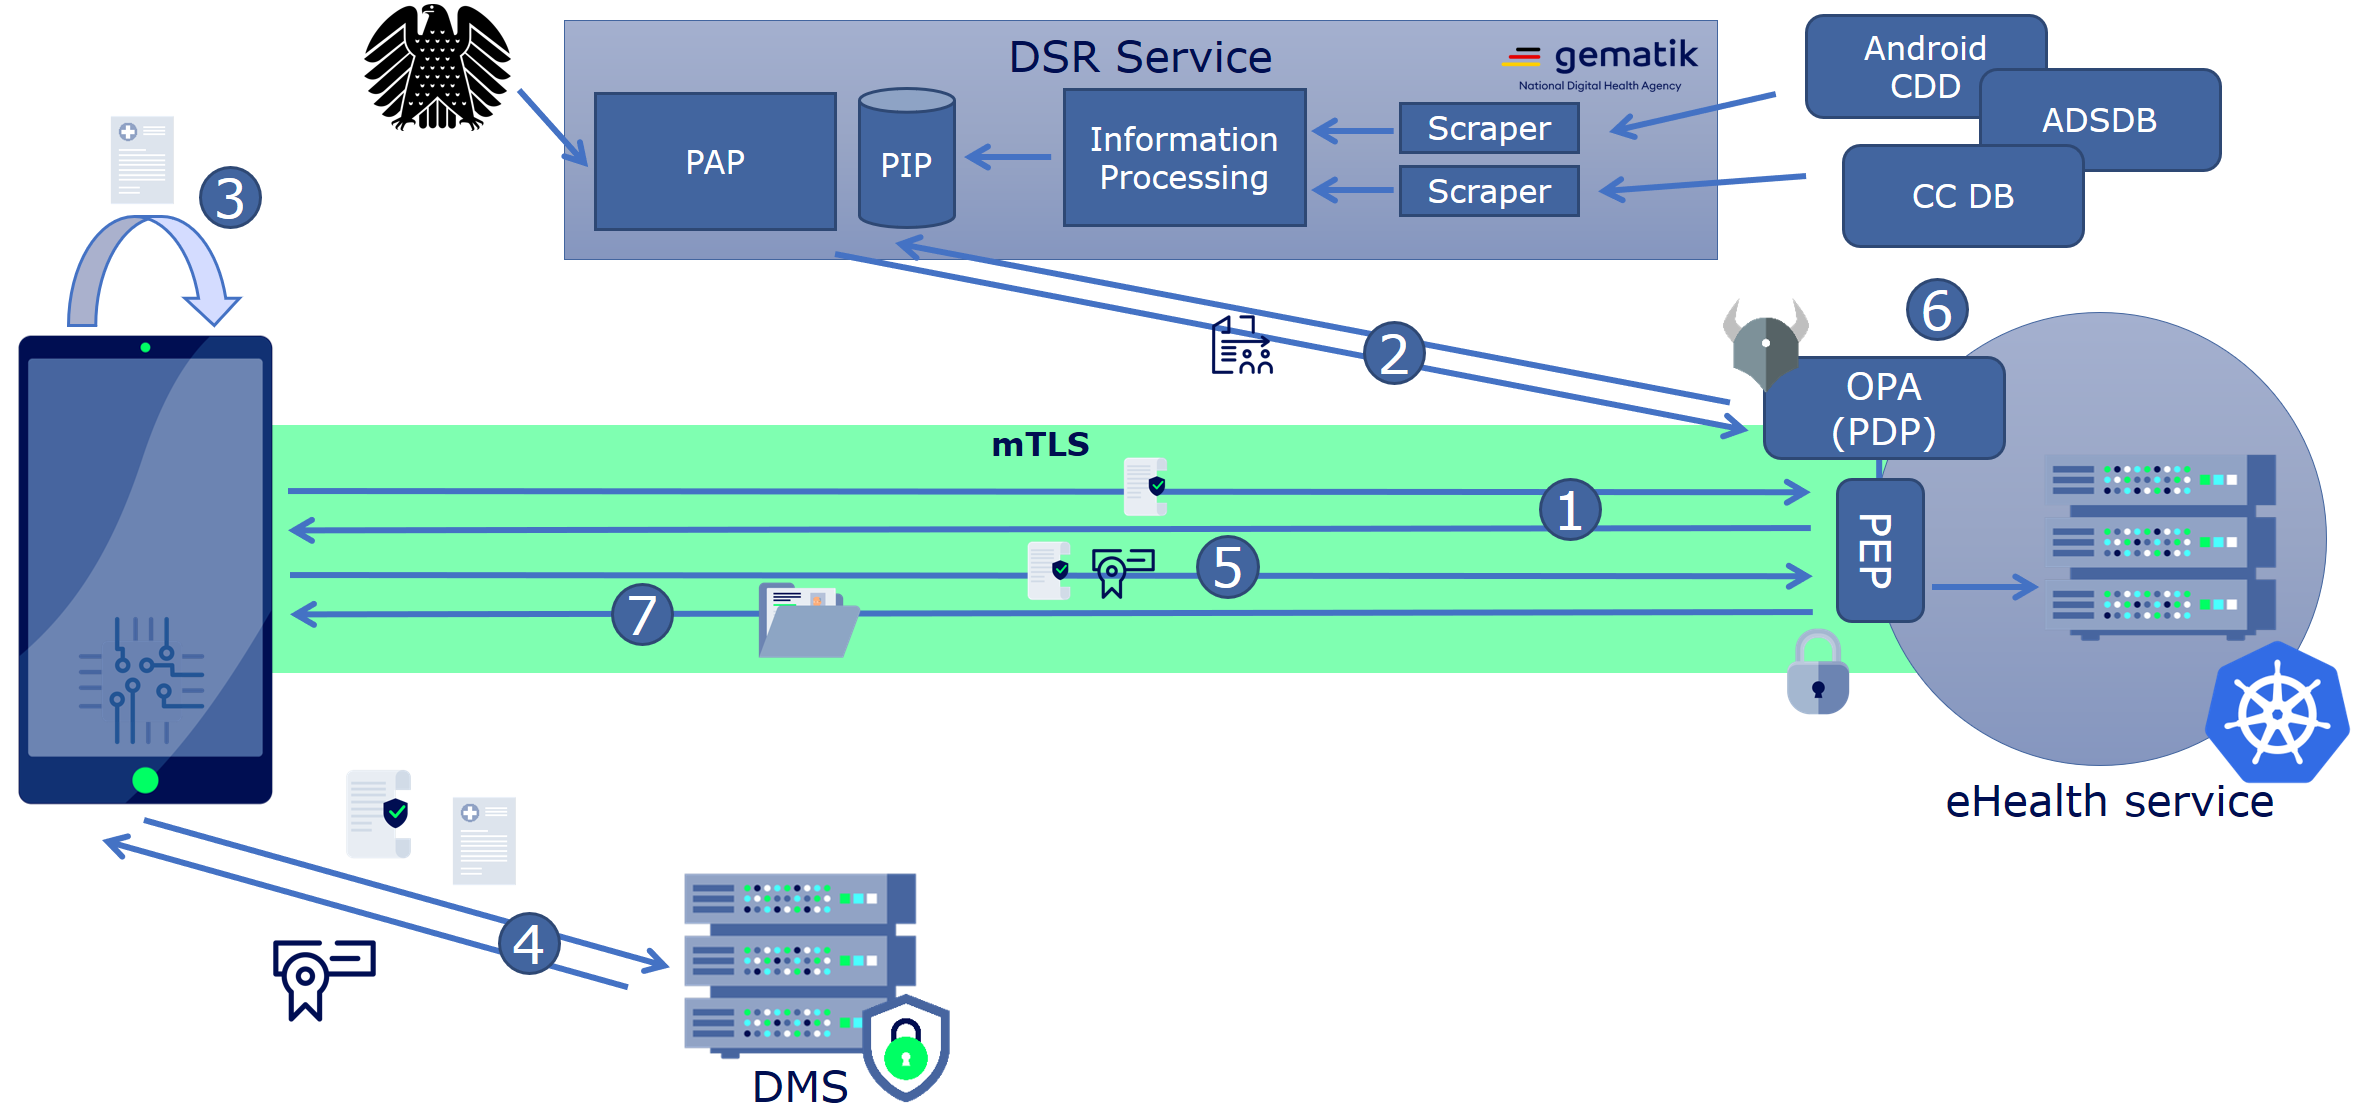
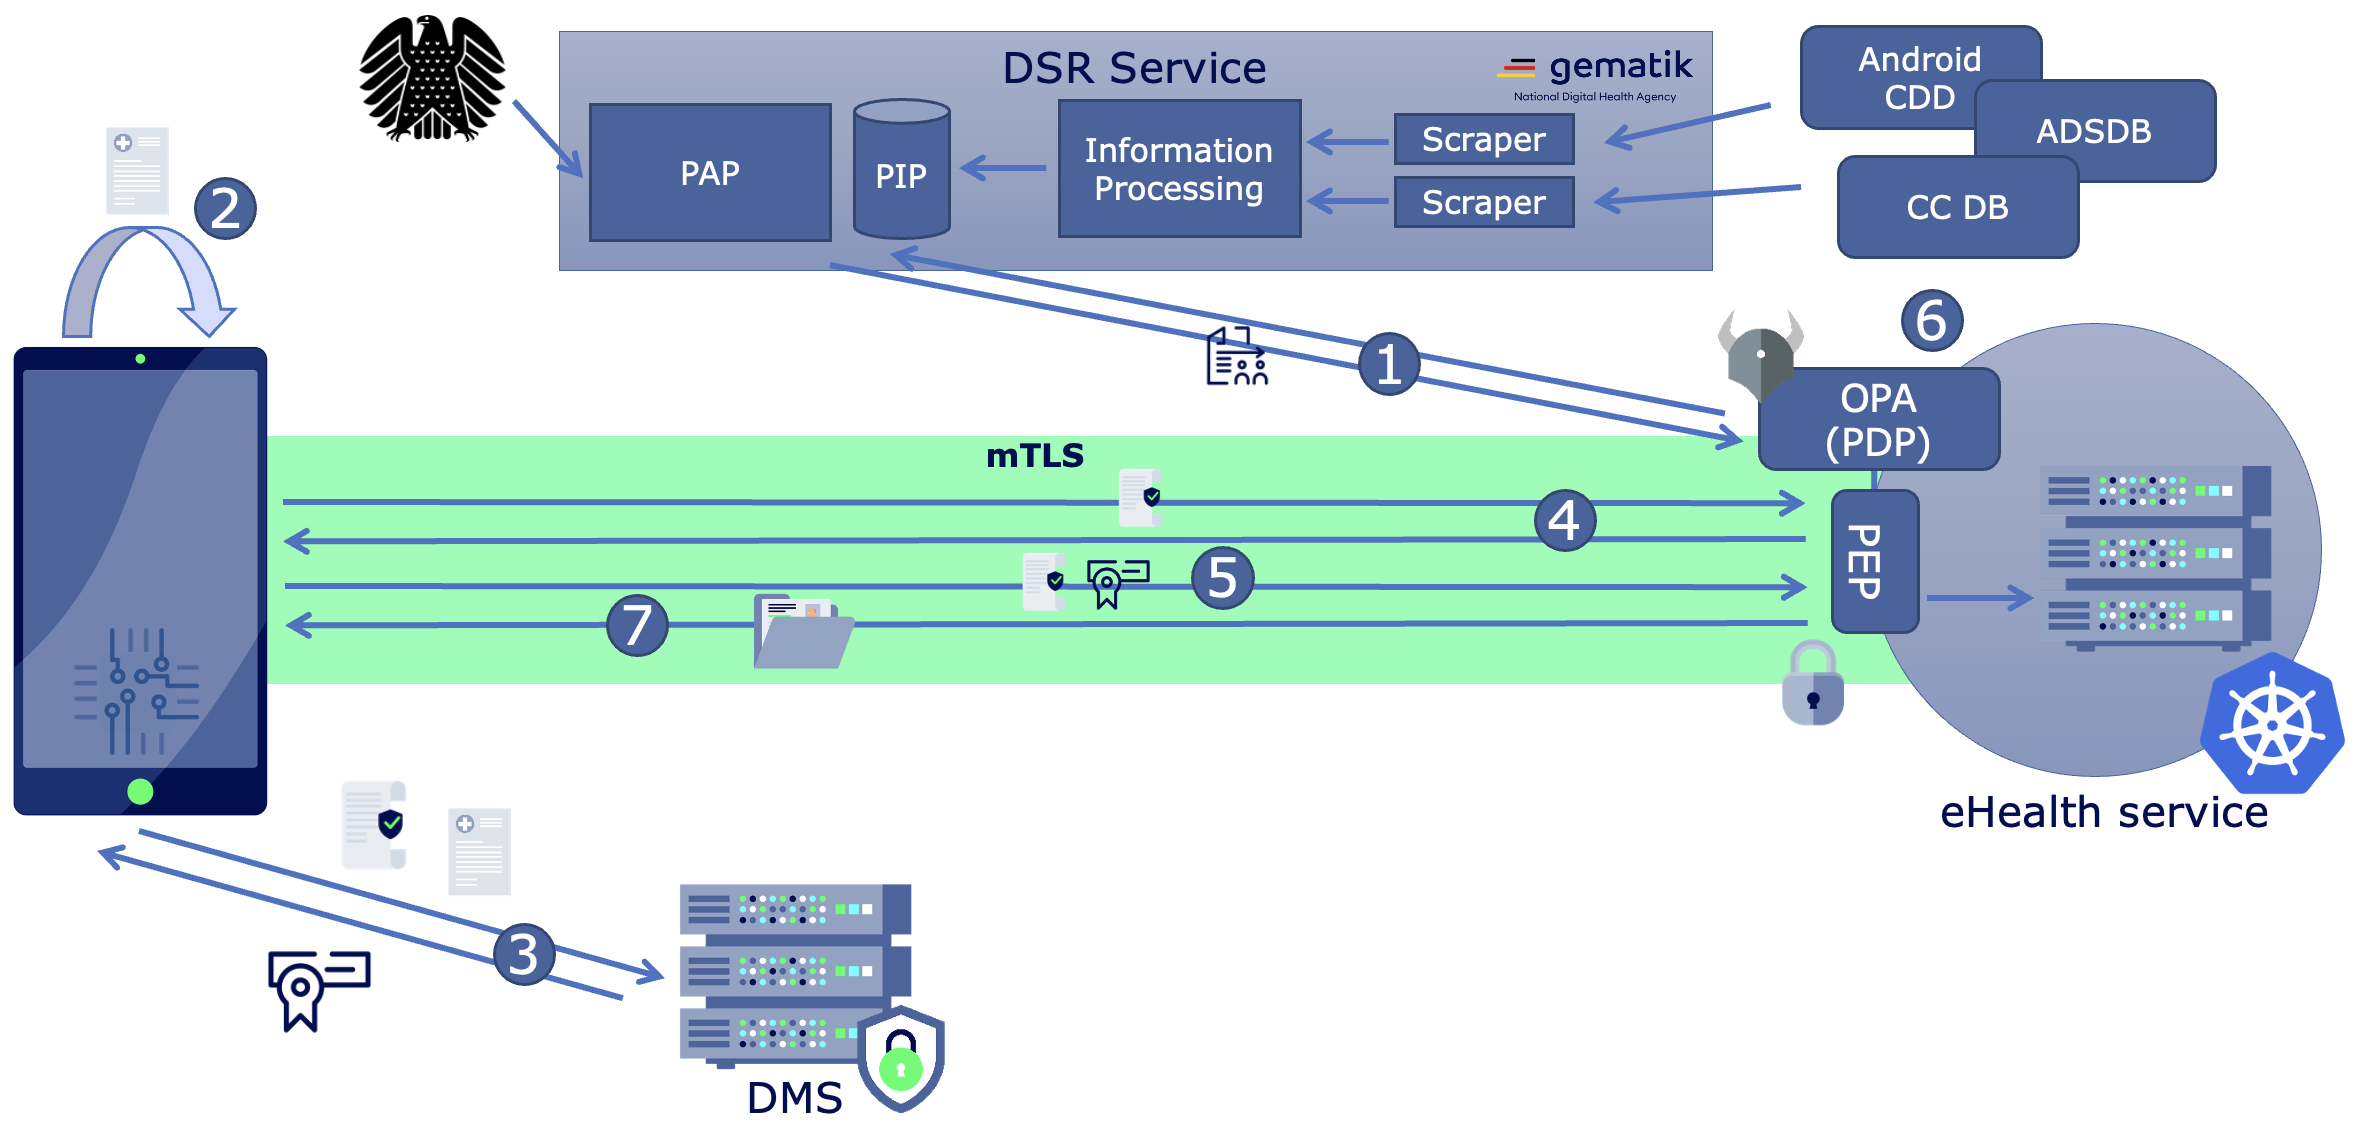
update docs

Changed region(s): [[0.0, 0.0, 0.9581, 1.0], [0.8654, 0.3968, 0.9581, 0.5799], [0.8036, 0.5799, 0.989, 0.7325]]

diff --git a/content/en/docs/rfcs/dsr-rfc-02/_index.md b/content/en/docs/rfcs/dsr-rfc-02/_index.md
@@ -12,10 +12,10 @@ Content is under development
 
 ![ressource_access](resource_access.png)
 
-1. `TrustClient` connects to the `eHealth Service` using TLS. Mutual authentication is performed using the client certificate issued in [DSR-RFC-01]({{< ref "../dsr-rfc-01" >}})
-2. `Policy Decision Point` regularly downloads, verifies, and installs the currently active policy from `Policy Administration Point` as well as context information from `Policy Information Point`.
-3. `TrustClient` requests an attestation from the platform APIs. 
-4. Attestation results are transmitted to `Device Management Service` in form of [Device Attestation Token](../dsr-rfc-04/#device-attestation-token-jwt_attest). Device Registration Service verifies the authenticity and integrity of the attestation and issues the [Device Token](../dsr-rfc-04/#device-token-device_token)
+1. `Policy Decision Point` regularly downloads, verifies, and installs the currently active policy from `Policy Administration Point` as well as context information from `Policy Information Point`.
+2. `TrustClient` requests an attestation from the platform APIs. 
+3. Attestation results are transmitted to `Device Management Service` in form of [Device Attestation Token](../dsr-rfc-04/#device-attestation-token-jwt_attest). Device Registration Service verifies the authenticity and integrity of the attestation and issues the [Device Token](../dsr-rfc-04/#device-token-device_token)
+4. `TrustClient` connects to the `eHealth Service` using TLS. Mutual authentication is performed using the client certificate issued in [DSR-RFC-01]({{< ref "../dsr-rfc-01" >}})
 5. `Trust Client`sends the `Device Token` as bearer token bound to mTLS certificate or a OAuth2 Code to the eHealth Service's `PEP`. PEP verifies the authenticity of the Device Token and extracts the device information.
 6. `PEP` uses device information and other available signals (e.g. HTTP request headers) as input to the `PDP`. `PDP` applies the policy against the device information and any other input provided to it by the `PEP`.
 7. Once `PDP` allowed the access by making the positive decision, the `PEP` lets the eHealth Service to continue and provide resources and other functionalities to the client.

diff --git a/content/en/docs/_index.md b/content/en/docs/_index.md
@@ -7,3 +7,4 @@ title: Device Security Rating Documentation
 weight: 20
 ---
 
+![DSR Overview](dsr_overview.png)
